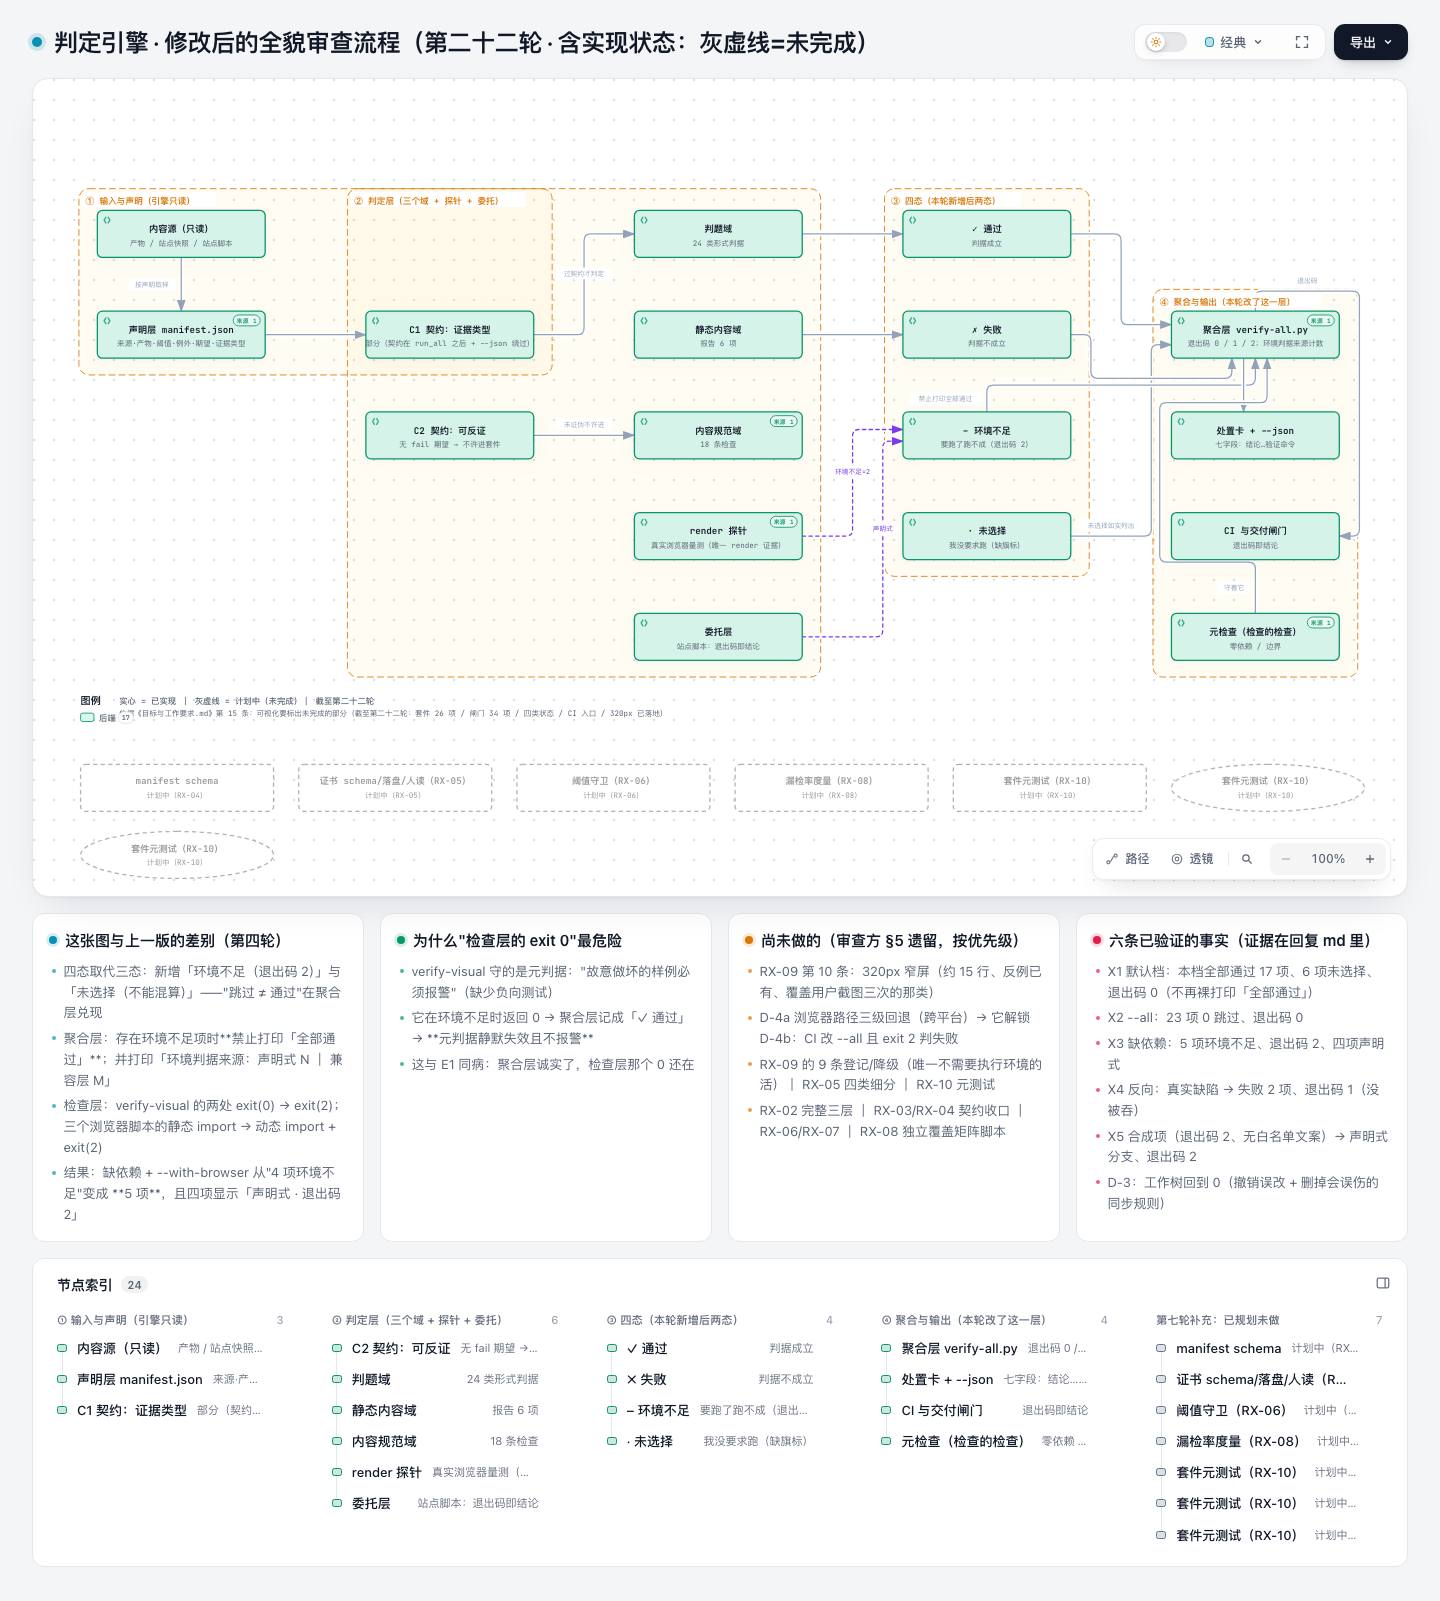
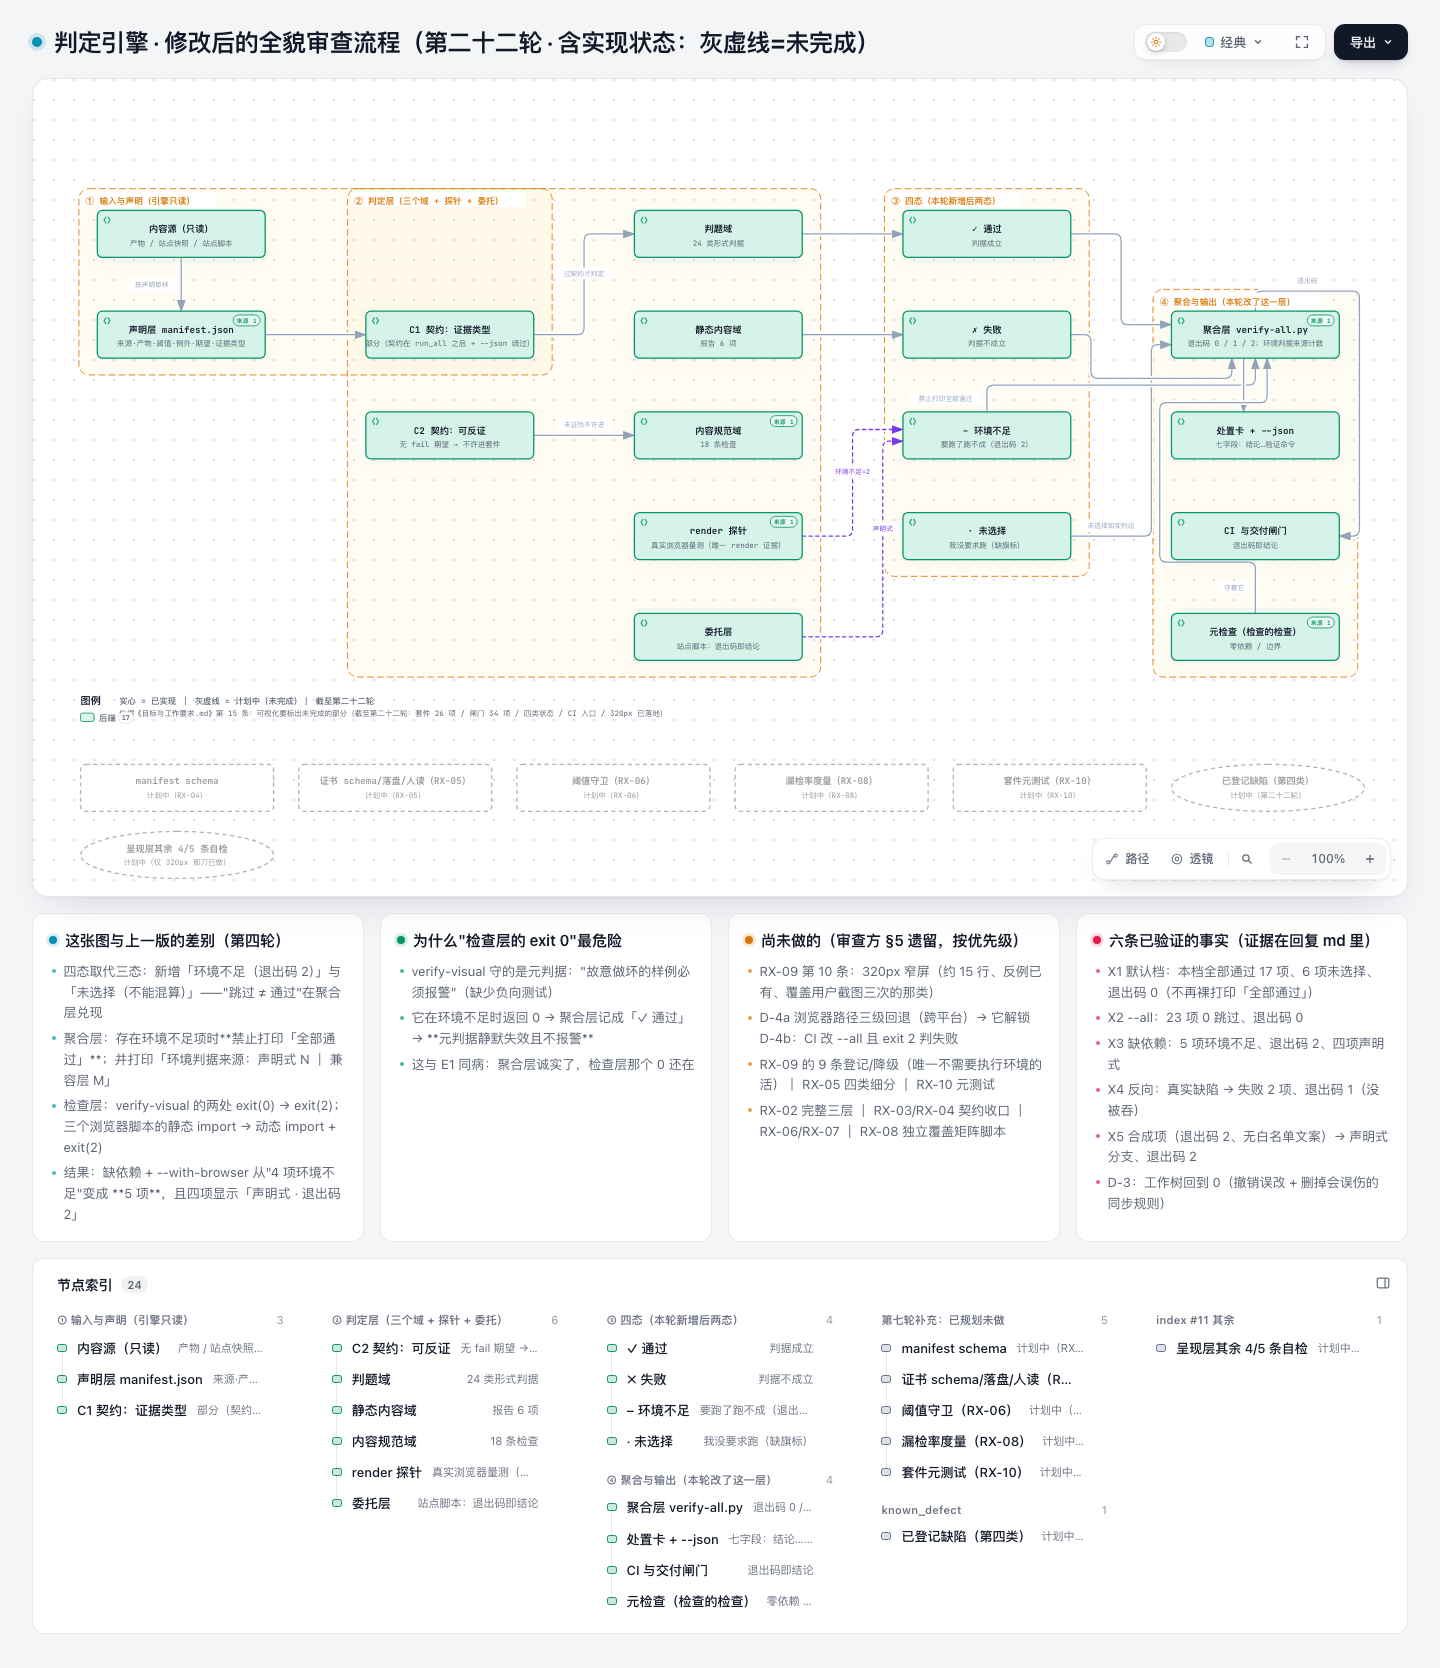
全貌图：修好两个灰节点的 data-node-* 属性（上轮只改了显示文字、属性没改 → 索引里重复三项）；节点清单重生成；附完成度截图

diff --git a/docs/全貌图/engine-audit-flow.html b/docs/全貌图/engine-audit-flow.html
@@ -5387,19 +5387,19 @@ OTHER DEALINGS IN THE FONT SOFTWARE.
           <text x="1195" y="824" class="t-planned" font-size="11" font-weight="600" text-anchor="middle">套件元测试（RX-10）</text>
           <text x="1195" y="840" class="t-planned" font-size="9" text-anchor="middle">计划中（RX-10）</text>
         </g>
-<g id="node-rxkd" data-node-id="rxkd" data-node-label="套件元测试（RX-10）" tabindex="480" role="button" aria-label="聚焦套件元测试（反例齐备），计划中（RX-10），计划中" aria-pressed="false" data-node-kind="planned" data-node-sublabel="计划中（RX-10）" data-node-tag="计划中" data-node-context="第七轮补充：已规划未做">
-          <title>套件元测试（RX-10） · 计划中（RX-10） · 计划中（尚未实现）</title>
+<g id="node-rxkd" data-node-id="rxkd" data-node-label="已登记缺陷（第四类）" tabindex="480" role="button" aria-label="聚焦已登记缺陷（第四类），计划中（第二十二轮），计划中" aria-pressed="false" data-node-kind="planned" data-node-sublabel="计划中（第二十二轮）" data-node-tag="计划中" data-node-context="known_defect">
+          <title>已登记缺陷（第四类） · 计划中（第二十二轮） · 计划中（尚未实现）</title>
           <rect x="1340" y="800" width="230" height="56" rx="486" class="c-mask"/>
           <rect x="1340" y="800" width="230" height="56" rx="486" class="c-planned"/>
-          <text x="1455" y="824" class="t-planned" font-size="11" font-weight="600" text-anchor="middle">套件元测试（RX-10）</text>
-          <text x="1455" y="840" class="t-planned" font-size="9" text-anchor="middle">计划中（RX-10）</text>
+          <text x="1455" y="824" class="t-planned" font-size="11" font-weight="600" text-anchor="middle">已登记缺陷（第四类）</text>
+          <text x="1455" y="840" class="t-planned" font-size="9" text-anchor="middle">计划中（第二十二轮）</text>
         </g>
-<g id="node-rx11" data-node-id="rx11" data-node-label="套件元测试（RX-10）" tabindex="960" role="button" aria-label="聚焦套件元测试（反例齐备），计划中（RX-10），计划中" aria-pressed="false" data-node-kind="planned" data-node-sublabel="计划中（RX-10）" data-node-tag="计划中" data-node-context="第七轮补充：已规划未做">
-          <title>套件元测试（RX-10） · 计划中（RX-10） · 计划中（尚未实现）</title>
+<g id="node-rx11" data-node-id="rx11" data-node-label="呈现层其余 4/5 条自检" tabindex="960" role="button" aria-label="聚焦呈现层其余 4/5 条自检，计划中（仅 320px 那刀已做），计划中" aria-pressed="false" data-node-kind="planned" data-node-sublabel="计划中（仅 320px 那刀已做）" data-node-tag="计划中" data-node-context="index #11 其余">
+          <title>呈现层其余 4/5 条自检 · 计划中（仅 320px 那刀已做） · 计划中（尚未实现）</title>
           <rect x="40" y="880" width="230" height="56" rx="966" class="c-mask"/>
           <rect x="40" y="880" width="230" height="56" rx="966" class="c-planned"/>
-          <text x="155" y="904" class="t-planned" font-size="11" font-weight="600" text-anchor="middle">套件元测试（RX-10）</text>
-          <text x="155" y="920" class="t-planned" font-size="9" text-anchor="middle">计划中（RX-10）</text>
+          <text x="155" y="904" class="t-planned" font-size="11" font-weight="600" text-anchor="middle">呈现层其余 4/5 条自检</text>
+          <text x="155" y="920" class="t-planned" font-size="9" text-anchor="middle">计划中（仅 320px 那刀已做）</text>
         </g>
 
             <!-- Legend -->

diff --git a/docs/全貌图/节点状态.md b/docs/全貌图/节点状态.md
@@ -1,38 +1,33 @@
-# 全貌图 · 节点状态清单（第二十二轮）
+# 全貌图 · 节点状态清单（第二十三轮）
 
-> **为什么有这份文件**：图在浏览器里只能"看"，不能 diff、不能 grep。本清单把每个节点的**实现状态**变成文本。
->
-> **生成方式**：从 `engine-audit-flow.html` 的节点属性抽取，与图**同一来源**；一致性由 `check-figure-sync.py` 守着。
+> 与图**同一来源**（从 data-node-* 属性抽取）；一致性由 check-figure-sync.py 守着。
+> **灰虚线 = 计划中（未完成）**；实心 = 已实现。
 
-| # | 节点 id | 标签 | 一句话状态 | 实现状态 | 所在区域 |
-|---|---|---|---|---|---|
-| 1 | `agg` | 聚合层 verify-all.py | 退出码 0 / 1 / 2；环境判据来源计数 | **已实现** | ④ 聚合与输出（本轮改了这一层） |
-| 2 | `c2` | C2 契约：可反证 | 无 fail 期望 → 不许进套件 | **已实现** | ② 判定层（三个域 + 探针 + 委托） |
-| 3 | `card` | 处置卡 + --json | 七字段：结论…验证命令 | **已实现** | ④ 聚合与输出（本轮改了这一层） |
-| 4 | `ci` | CI 与交付闸门 | 退出码即结论 | **已实现** | ④ 聚合与输出（本轮改了这一层） |
-| 5 | `d1` | 判题域 | 24 类形式判据 | **已实现** | ② 判定层（三个域 + 探针 + 委托） |
-| 6 | `d2` | 静态内容域 | 报告 6 项 | **已实现** | ② 判定层（三个域 + 探针 + 委托） |
-| 7 | `d3` | 内容规范域 | 18 条检查 | **已实现** | ② 判定层（三个域 + 探针 + 委托） |
-| 8 | `decl` | 声明层 manifest.json | 来源·产物·阈值·例外·期望·证据类型 | **已实现** | ① 输入与声明（引擎只读） |
-| 9 | `dl` | 委托层 | 站点脚本：退出码即结论 | **已实现** | ② 判定层（三个域 + 探针 + 委托） |
-| 10 | `mt` | 元检查（检查的检查） | 零依赖 / 边界 | **已实现** | ④ 聚合与输出（本轮改了这一层） |
-| 11 | `rp` | render 探针 | 真实浏览器量测（唯一 render 证据） | **已实现** | ② 判定层（三个域 + 探针 + 委托） |
-| 12 | `s1` | ✓ 通过 | 判据成立 | **已实现** | ③ 四态（本轮新增后两态） |
-| 13 | `s2` | ✗ 失败 | 判据不成立 | **已实现** | ③ 四态（本轮新增后两态） |
-| 14 | `s3` | – 环境不足 | 要跑了跑不成（退出码 2） | **已实现** | ③ 四态（本轮新增后两态） |
-| 15 | `s4` | · 未选择 | 我没要求跑（缺旗标） | **已实现** | ③ 四态（本轮新增后两态） |
-| 16 | `src` | 内容源（只读） | 产物 / 站点快照 / 站点脚本 | **已实现** | ① 输入与声明（引擎只读） |
-| 17 | `c1` | C1 契约：证据类型 | 部分（契约在 run_all 之后 + --json 绕过） | **部分** | ① 输入与声明（引擎只读） |
-| 18 | `rx04` | manifest schema | 计划中（RX-04） | **计划中** | 第七轮补充：已规划未做 |
-| 19 | `rx05` | 证书 schema/落盘/人读（RX-05） | 计划中（RX-05） | **计划中** | 第七轮补充：已规划未做 |
-| 20 | `rx06` | 阈值守卫（RX-06） | 计划中（RX-06） | **计划中** | 第七轮补充：已规划未做 |
-| 21 | `rx08` | 漏检率度量（RX-08） | 计划中（RX-08） | **计划中** | 第七轮补充：已规划未做 |
-| 22 | `rx10` | 套件元测试（RX-10） | 计划中（RX-10） | **计划中** | 第七轮补充：已规划未做 |
-| 23 | `rx11` | 套件元测试（RX-10） | 计划中（RX-10） | **计划中** | 第七轮补充：已规划未做 |
-| 24 | `rxkd` | 套件元测试（RX-10） | 计划中（RX-10） | **计划中** | 第七轮补充：已规划未做 |
+| # | 节点 id | 标签 | 一句话状态 | 实现状态 |
+|---|---|---|---|---|
+| 1 | `agg` | 聚合层 verify-all.py | 退出码 0 / 1 / 2；环境判据来源计数 | **已实现** |
+| 2 | `c2` | C2 契约：可反证 | 无 fail 期望 → 不许进套件 | **已实现** |
+| 3 | `card` | 处置卡 + --json | 七字段：结论…验证命令 | **已实现** |
+| 4 | `ci` | CI 与交付闸门 | 退出码即结论 | **已实现** |
+| 5 | `d1` | 判题域 | 24 类形式判据 | **已实现** |
+| 6 | `d2` | 静态内容域 | 报告 6 项 | **已实现** |
+| 7 | `d3` | 内容规范域 | 18 条检查 | **已实现** |
+| 8 | `decl` | 声明层 manifest.json | 来源·产物·阈值·例外·期望·证据类型 | **已实现** |
+| 9 | `dl` | 委托层 | 站点脚本：退出码即结论 | **已实现** |
+| 10 | `mt` | 元检查（检查的检查） | 零依赖 / 边界 | **已实现** |
+| 11 | `rp` | render 探针 | 真实浏览器量测（唯一 render 证据） | **已实现** |
+| 12 | `s1` | ✓ 通过 | 判据成立 | **已实现** |
+| 13 | `s2` | ✗ 失败 | 判据不成立 | **已实现** |
+| 14 | `s3` | – 环境不足 | 要跑了跑不成（退出码 2） | **已实现** |
+| 15 | `s4` | · 未选择 | 我没要求跑（缺旗标） | **已实现** |
+| 16 | `src` | 内容源（只读） | 产物 / 站点快照 / 站点脚本 | **已实现** |
+| 17 | `c1` | C1 契约：证据类型 | 部分（契约在 run_all 之后 + --json 绕过） | **部分** |
+| 18 | `rx04` | manifest schema | 计划中（RX-04） | **计划中** |
+| 19 | `rx05` | 证书 schema/落盘/人读（RX-05） | 计划中（RX-05） | **计划中** |
+| 20 | `rx06` | 阈值守卫（RX-06） | 计划中（RX-06） | **计划中** |
+| 21 | `rx08` | 漏检率度量（RX-08） | 计划中（RX-08） | **计划中** |
+| 22 | `rx10` | 套件元测试（RX-10） | 计划中（RX-10） | **计划中** |
+| 23 | `rx11` | 呈现层其余 4/5 条自检 | 计划中（仅 320px 那刀已做） | **计划中** |
+| 24 | `rxkd` | 已登记缺陷（第四类） | 计划中（第二十二轮） | **计划中** |
 
 **统计**：已实现 16 ｜ 部分 1 ｜ 计划中 7 ｜ 合计 24 个节点
-
-> **读法**：**灰虚线（计划中）= 未完成**；实心 = 已实现。
-> 截至第二十二轮已落地：四类状态（含检查器故障）／口径表驱动／CI 入口 `CI自检.sh`／320px 多档量测／聚合器自检。
-> 未完成：已知缺陷第四类（known_defect）／RX-05 证书／RX-10 元测试／RX-03·04／RX-06／RX-08／呈现层其余 4/5 条自检。
